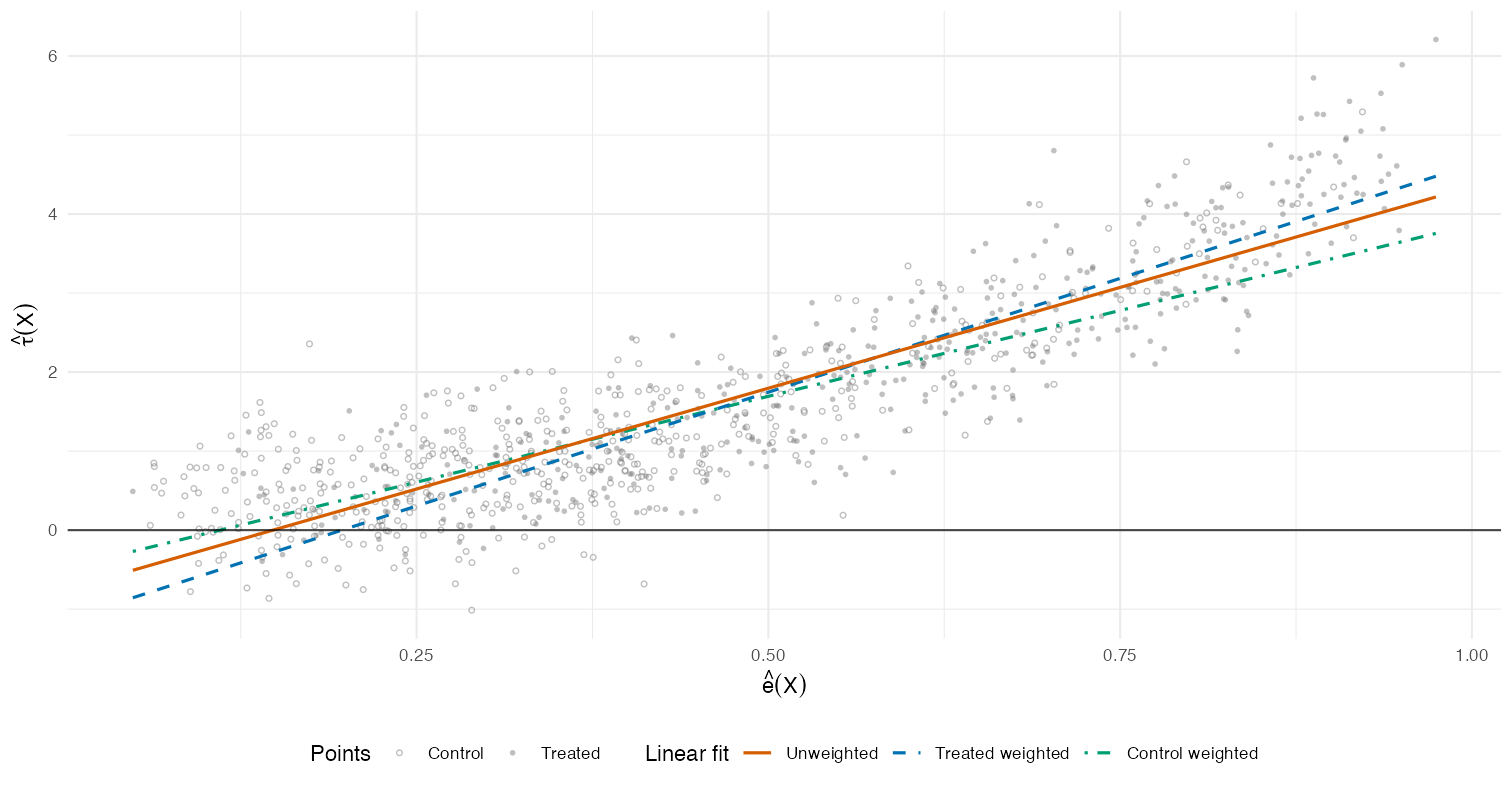
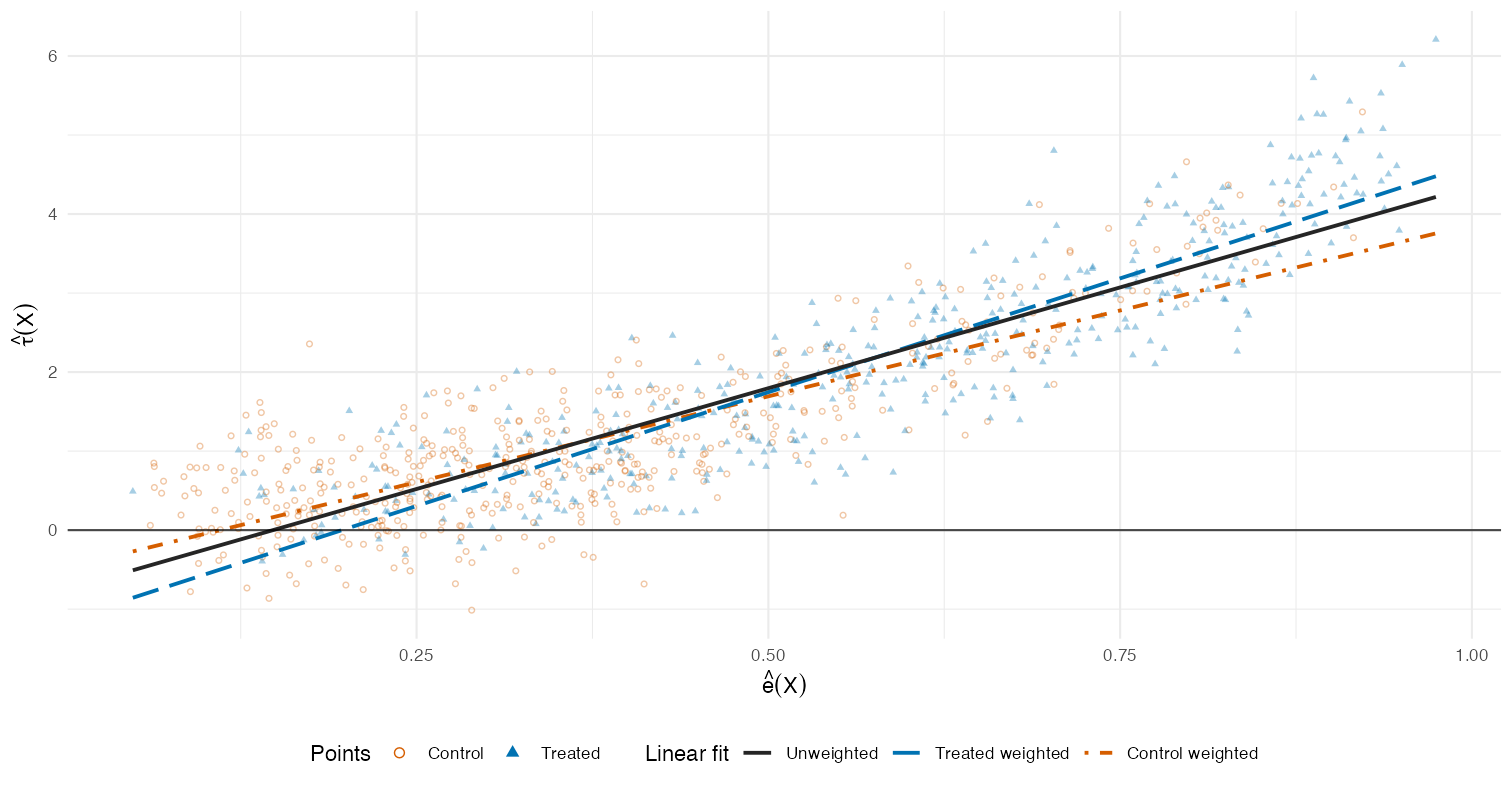
Improve CP plot visual distinction

diff --git a/docs/api.html b/docs/api.html
@@ -62,7 +62,7 @@
           <pre class="signature"><code>cp_plot(formula = NULL, data, e_hat = NULL, tau_hat = NULL,
         treatment = NULL, e_method = "logistic", tau_method = "ols",
         point_labels = c("Control", "Treated"),
-        title = NULL, alpha = 0.45, point_size = 1)</code></pre>
+        title = NULL, alpha = 0.35, point_size = 1)</code></pre>
           <p>Draw an observational CP plot.</p>
           <table class="api-table">
             <thead>